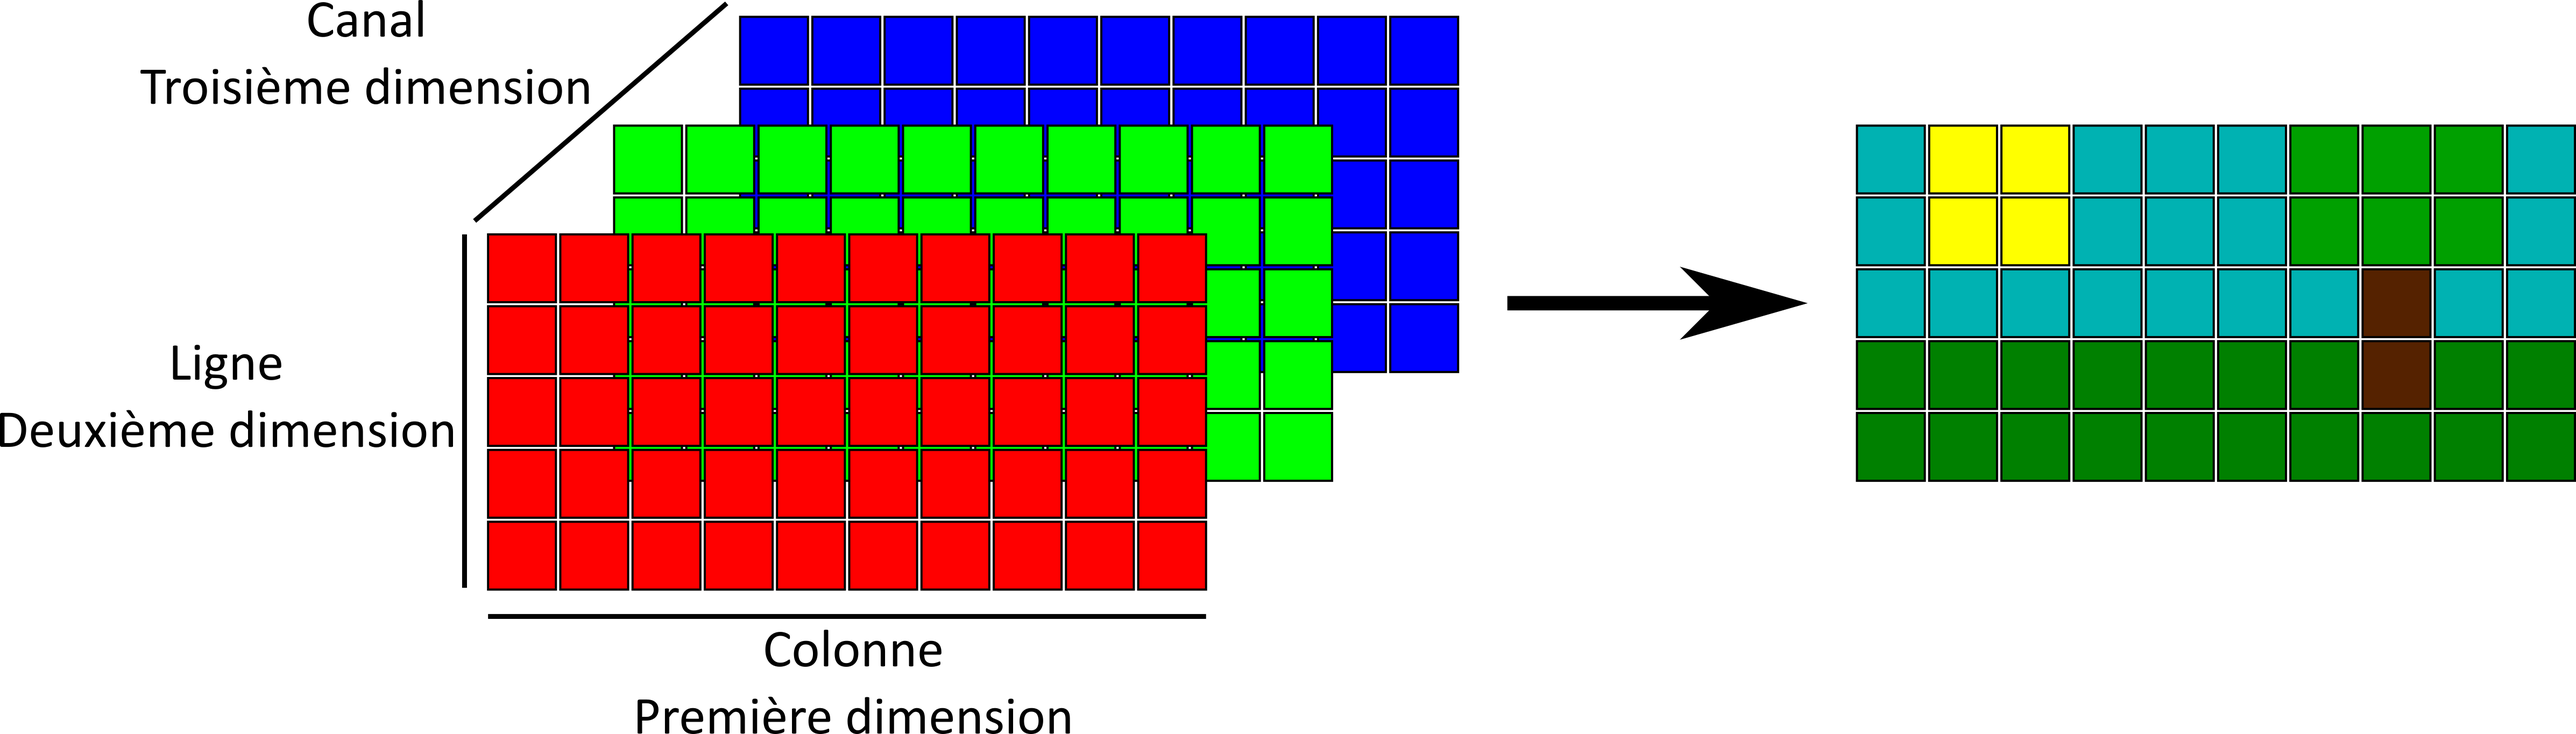
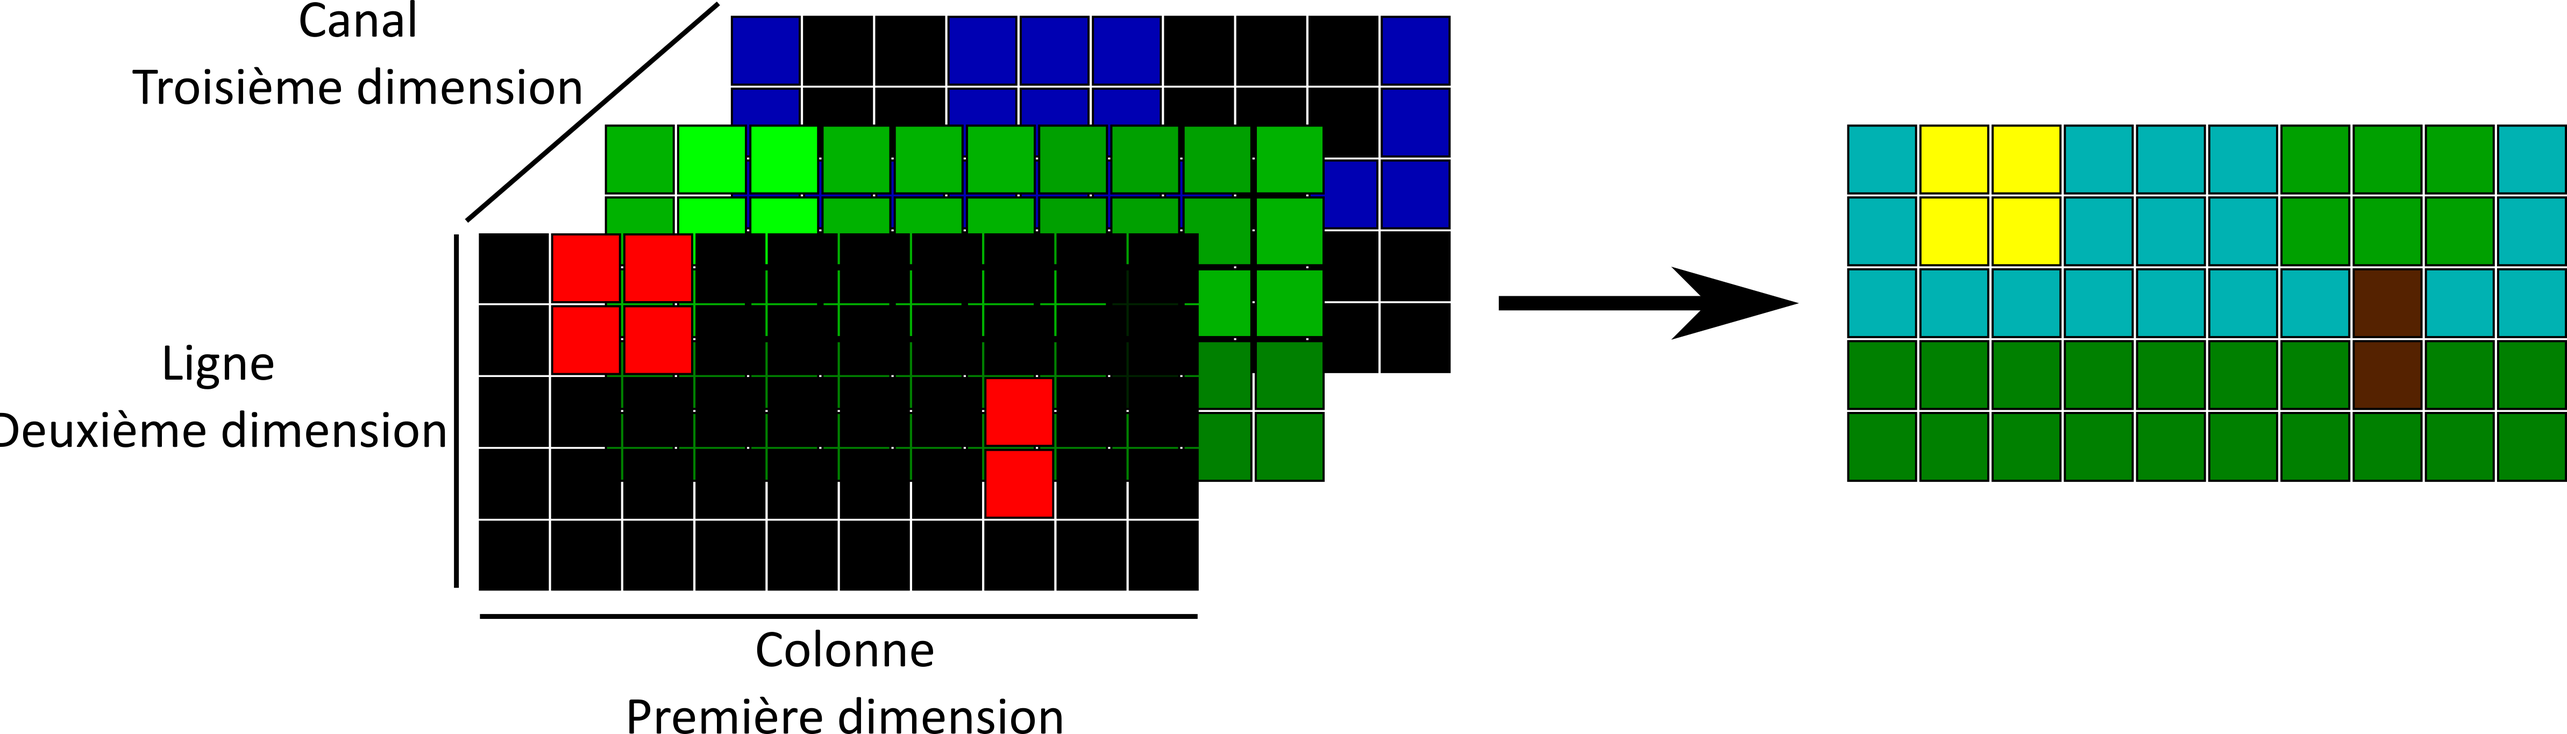
Update 3D pictures

diff --git a/traitement-image/sujet.md b/traitement-image/sujet.md
@@ -148,17 +148,23 @@ En combinant les valeurs de rouge, vert et bleu de chaque pixel, on obtient la c
 Comme pour les autres types de tableaux, on peut déclarer les images de deux façons :
 
 ```
-picture[10][5][3]
+image[10][5][3]
 ```
 
 ```
-picture[][][]
+image[][][]
 ```
 
 Dans le deuxième cas, la déclaration de la taille des tableaux dans les instructions se fait ainsi :
 ```
-picture[][][] ← picture[10][5][3]
+image[][][] ← image[10][5][3]
 ```
 
 ### 3.2. Accès aux informations de l'image
 
+L'accès à un pixel de la grille ce fait en utilisant `image[x][y]` où `x` correspond à l'index de colonne et `y` à l'index des lignes. 
+`image[x][y]` est un tableau de trois cases.
+
+<p align="center">
+  <img width="450" src="https://github.com/CamilleSimon/algorithmique/blob/main/traitement-image/pixel0-0.png">
+</p>
